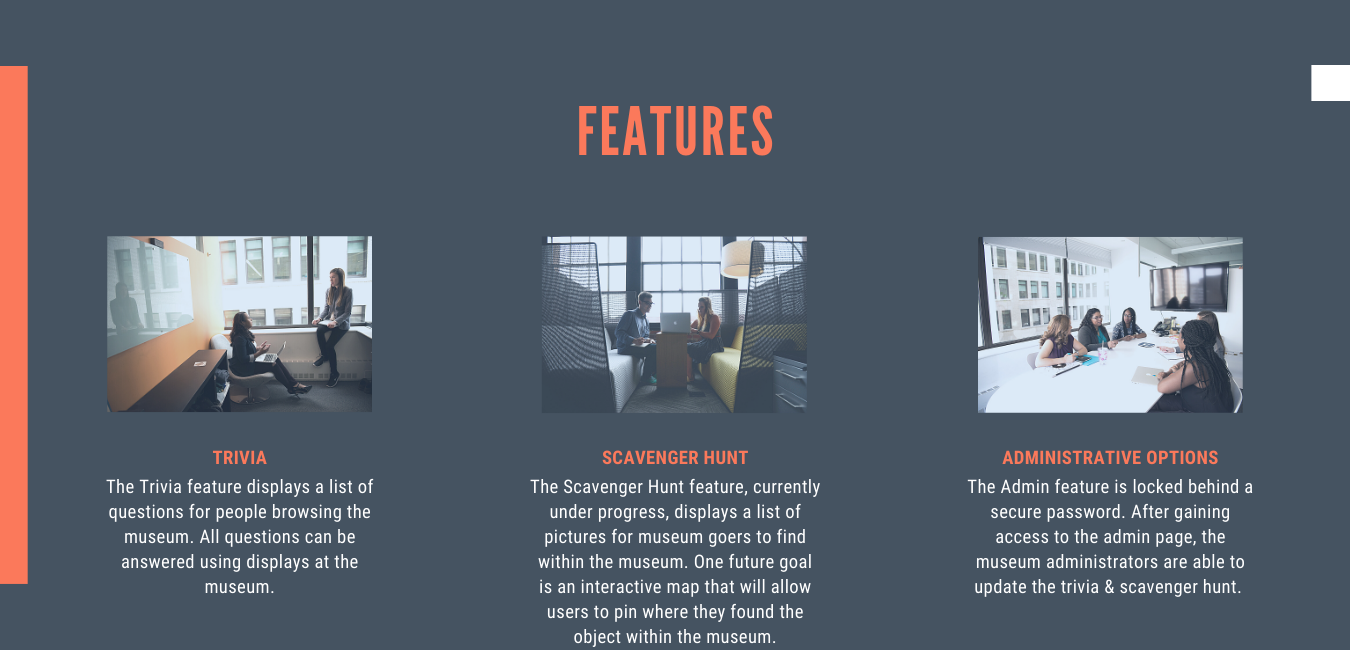
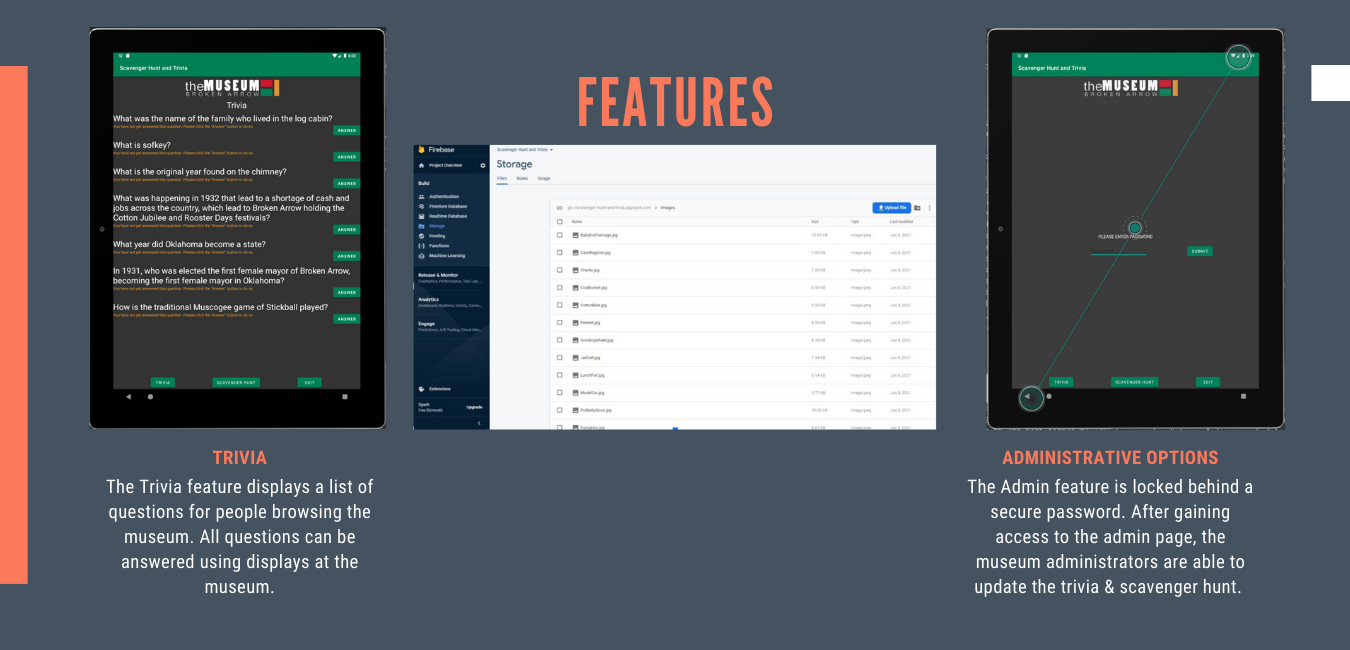
fixed

diff --git a/index.html b/index.html
@@ -2,26 +2,19 @@
 <!DOCTYPE html>
 <head><link rel="stylesheet" href="stylesheet.css"></head>
 <body>
-  <div><ul>
-    <li><a href="default.asp">Home</a></li>
-    <li><a href="news.asp">About</a></li>
-    <li><a href="contact.asp">Features</a></li>
-    <li><a href="about.asp">More</a></li>
-    <li><a href="link">Contact</a></li>
-  </ul></div>
 <div class="container">
-    <div class="Header"><img src="1.png"></div>
-    <div class="About"><img src="2.png"></div>
-    <div class="Features"><img src="3.png"></div>
-    <div class="More"><img src="4.png"></div>
-    <div class="Contact"><img src="5.png"></div>
+  <div id="headerlink"><div class="Header"><img src="1.png"></div></div>
+  <div id="aboutlink"><div class="About"><img src="2.png"></div></div>
+  <div id="featureslink"><div class="Features"><img src="3.png"></div></div>
+  <div id="morelink"><div class="More"><img src="4.png"></div></div>
+  <div id="contactlink"><div class="Contact"><img src="5.png"></div></div>
   </div>
   <div><ul>
-    <li><a href="default.asp">Home</a></li>
-    <li><a href="news.asp">About</a></li>
-    <li><a href="contact.asp">Features</a></li>
-    <li><a href="about.asp">More</a></li>
-    <li><a href="link">Contact</a></li>
+    <li><a href="#headerlink">Home</a></li>
+    <li><a href="#aboutlink">About</a></li>
+    <li><a href="#featureslink">Features</a></li>
+    <li><a href="#morelink">More</a></li>
+    <li><a href="#contactlink">Contact</a></li>
   </ul></div>
   </body>
   </html>

diff --git a/stylesheet.css b/stylesheet.css
@@ -1,3 +1,7 @@
+body {
+  font-family: monsterrat, Arial, Helvetica, sans-serif;
+}
+
 ul {
   position: fixed;
   top: 0;
@@ -31,7 +35,7 @@ li a:hover {
     grid-template-columns: 1fr 1fr 1fr;
     grid-template-rows: 1fr 1fr 1fr;
     gap: 0px 0px;
-    grid-auto-flow: row;
+    grid-auto-flow: column;
     grid-template-areas:
       "Header Header Header"
       "About About About"
@@ -40,7 +44,7 @@ li a:hover {
       "Contact Contact Contact";
   }
   
-  .header { grid-area: header; }
+  .Header { grid-area: header; }
   
   .About { grid-area: About; }
   
